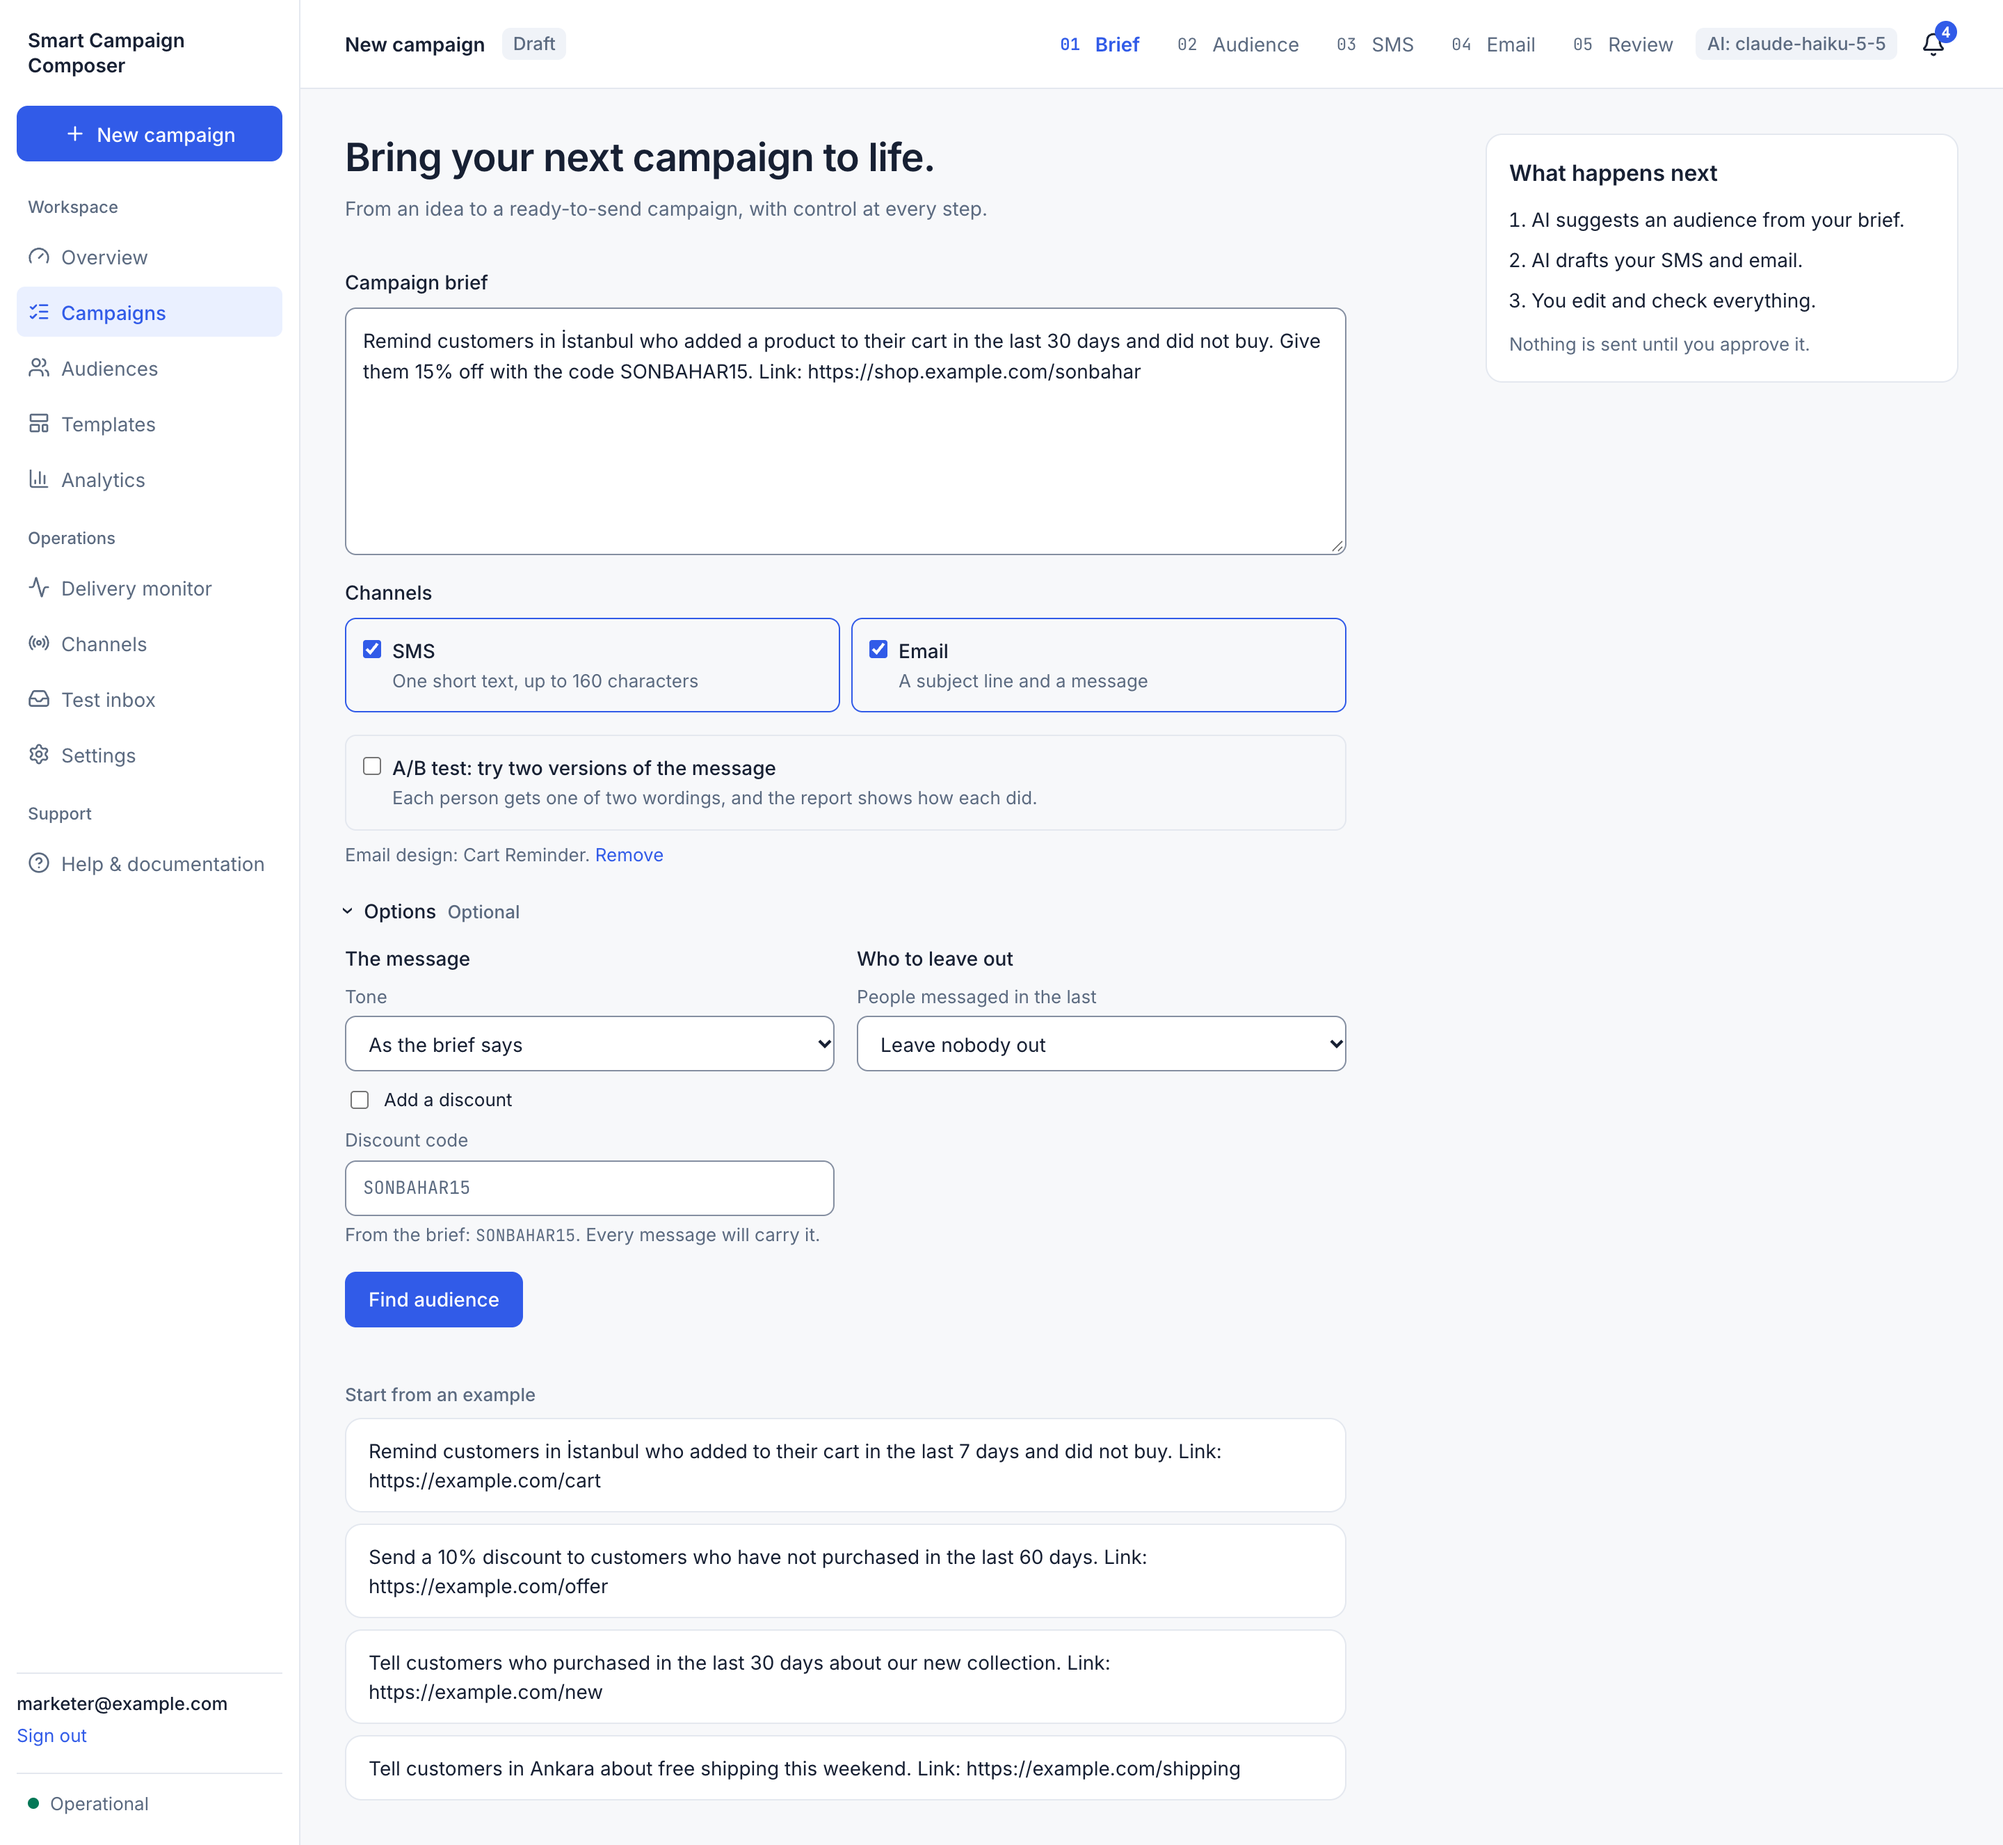
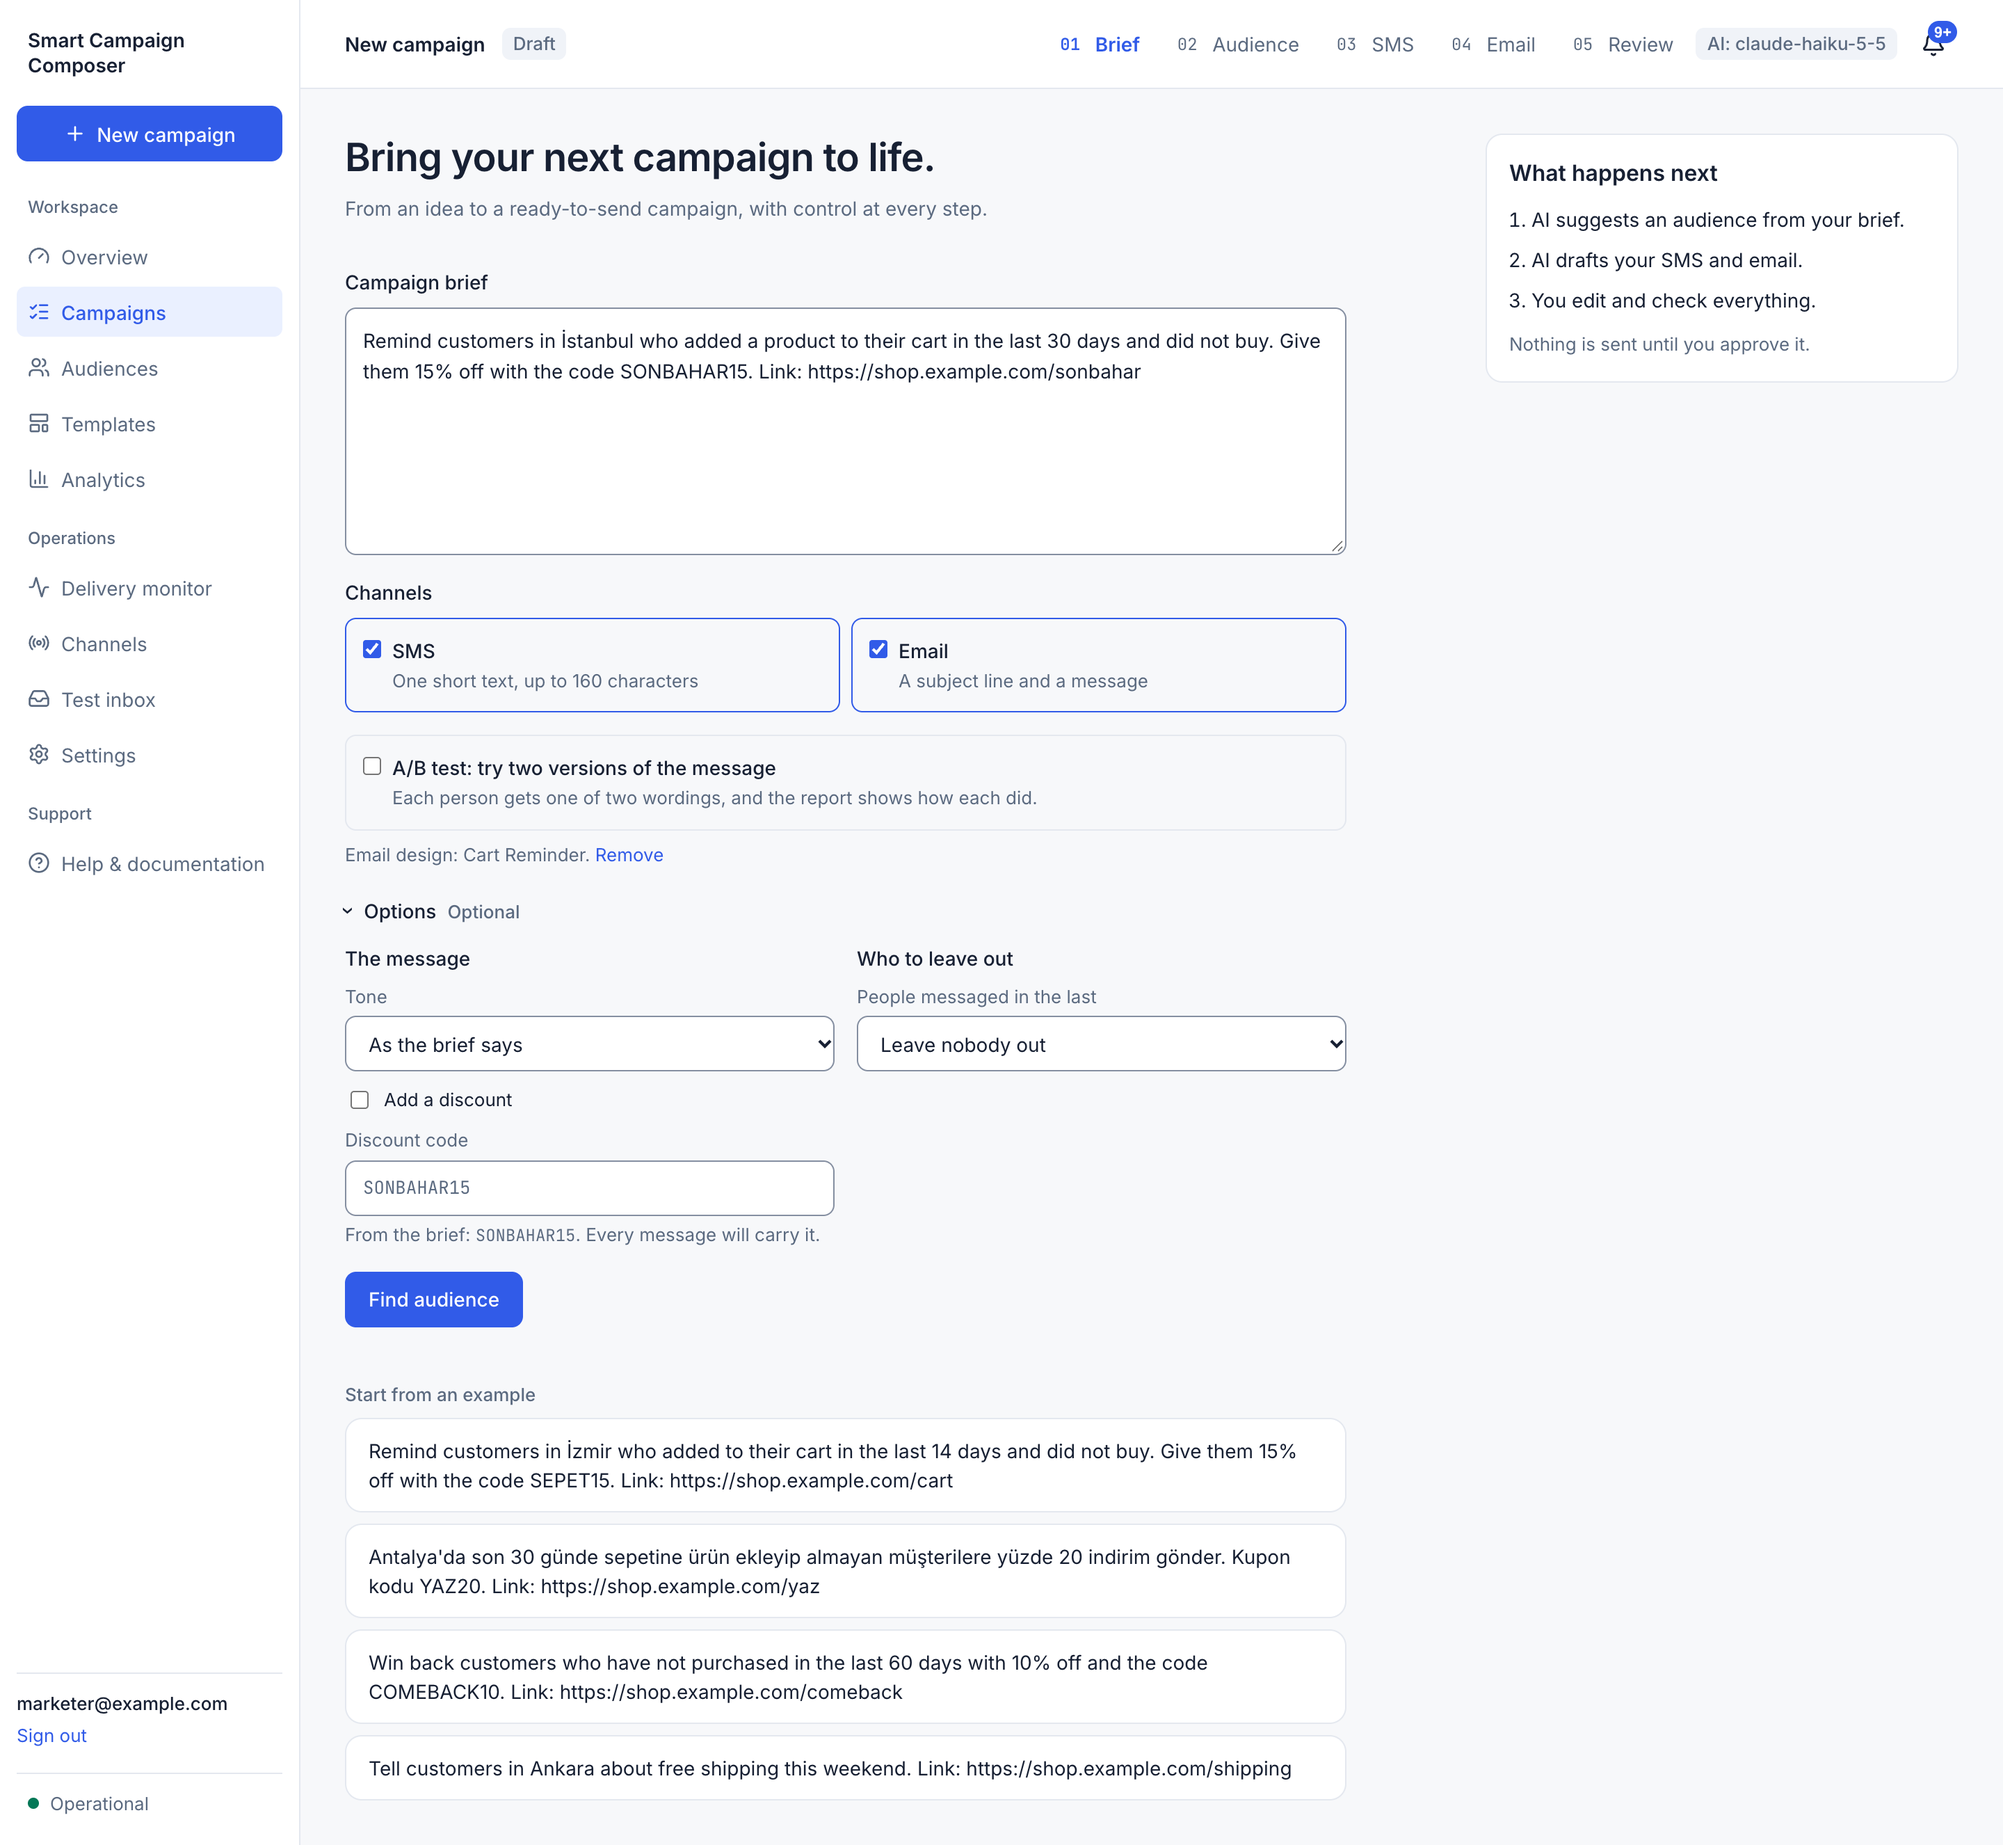
docs: refresh the brief examples, first-campaign steps and screenshots

Changed region(s): [[0.1875, 0.8348, 0.5938, 0.8658], [0.1875, 0.8967, 0.5625, 0.9276], [0.2812, 0.773, 0.625, 0.8039]]

diff --git a/frontend/src/views/ComposeView.vue b/frontend/src/views/ComposeView.vue
@@ -8,6 +8,7 @@ import ValidationNotice from "../components/ValidationNotice.vue";
 import { ruleText } from "../lib/audience";
 import { defaultChannels } from "../lib/preferences";
 import { EMAIL_TEMPLATES, isCustomTemplate } from "../lib/emailTemplates";
+import { BRIEF_EXAMPLES as suggestions } from "../lib/briefExamples";
 import { briefCodes, briefLinks, validCode } from "../lib/message";
 import { navigate } from "../lib/navigation";
 import { requestAudience } from "../lib/pendingAudience";
@@ -53,13 +54,6 @@ onMounted(async () => {
     error.value = errorMessage(failure);
   }
 });
-
-const suggestions = [
-  "Remind customers in İstanbul who added to their cart in the last 7 days and did not buy. Link: https://example.com/cart",
-  "Send a 10% discount to customers who have not purchased in the last 60 days. Link: https://example.com/offer",
-  "Tell customers who purchased in the last 30 days about our new collection. Link: https://example.com/new",
-  "Tell customers in Ankara about free shipping this weekend. Link: https://example.com/shipping",
-];
 
 const validShare = computed(() => Number.isInteger(firstShare.value) && Number(firstShare.value) >= 1 && Number(firstShare.value) <= 99);
 

diff --git a/frontend/src/lib/briefExamples.ts b/frontend/src/lib/briefExamples.ts
@@ -1,0 +1,8 @@
+// Each shows something a brief can carry: a code, a link, a percent in words, Turkish.
+export const BRIEF_EXAMPLES = [
+  "Remind customers in İzmir who added to their cart in the last 14 days and did not buy. Give them 15% off with the code SEPET15. Link: https://shop.example.com/cart",
+  "Antalya'da son 30 günde sepetine ürün ekleyip almayan müşterilere yüzde 20 indirim gönder. Kupon kodu YAZ20. Link: https://shop.example.com/yaz",
+  "Win back customers who have not purchased in the last 60 days with 10% off and the code COMEBACK10. Link: https://shop.example.com/comeback",
+  "Tell customers in Ankara about free shipping this weekend. Link: https://shop.example.com/shipping",
+];
+

diff --git a/frontend/src/lib/briefExamples.test.ts b/frontend/src/lib/briefExamples.test.ts
@@ -1,0 +1,13 @@
+import { describe, expect, it } from "vitest";
+import { BRIEF_EXAMPLES } from "./briefExamples";
+import { briefCodes, briefLinks } from "./message";
+
+describe("the brief examples", () => {
+  it("each pass the form as written, with one link and at most one code", () => {
+    for (const example of BRIEF_EXAMPLES) {
+      expect(briefLinks(example), example).toHaveLength(1);
+      expect(briefCodes(example).length, example).toBeLessThanOrEqual(1);
+    }
+    expect(BRIEF_EXAMPLES.filter((example) => briefCodes(example).length === 1)).toHaveLength(3);
+  });
+});

diff --git a/README.md b/README.md
@@ -40,7 +40,7 @@ Say who the campaign is for and what it should say, choose SMS, email or both, a
 
 A discount code in the brief, here `SONBAHAR15`, is read and shown under Options; it can also be typed there. Every message carries it.
 
-![New campaign: a brief with a discount code and a link, both channels selected, the Cart Reminder template chosen and the code read from the brief under Options](docs/screenshots/brief.png)
+![New campaign: a brief with a discount code and a link, both channels selected, the Cart Reminder template chosen and the code read from the brief under Options, with the four examples below](docs/screenshots/brief.png)
 
 ### 3. Check who will receive it
 
@@ -88,11 +88,11 @@ When the brief has a link, every SMS carries a short link of its own, and openin
 
 The test inbox shows each message the mock provider accepted, as the customer would get it: here the Cart Reminder email in English, with the name and the code filled in, among the Turkish ones. Nothing leaves your machine.
 
-![Test inbox: accepted emails in Turkish and English, and one open English cart reminder with the SONBAHAR15 code box and its button](docs/screenshots/test-inbox.png)
+![Test inbox: accepted emails in several languages, and one open English cart reminder with the SONBAHAR15 code box and its button](docs/screenshots/test-inbox.png)
 
 Each SMS carries the code and a short link of its own.
 
-![Test inbox: accepted SMS in Turkish and English, and one open English SMS with the code and its short link](docs/screenshots/test-inbox-sms.png)
+![Test inbox: accepted SMS in several languages, and one open English SMS with the code and its short link](docs/screenshots/test-inbox-sms.png)
 
 ### 8. See the whole workspace
 
@@ -167,18 +167,21 @@ You should see an empty Overview with a `Mock AI` badge at the top and Database,
 
 ### 5. Send your first campaign
 
-1. Open **Templates**, find **Flash Sale** and select **Use template**.
-2. Paste this brief, then select **Find audience**:
+1. Open **Templates**, find **Cart Reminder** and select **Use template**.
+2. Under **Start from an example**, select the first one. It fills in this brief:
 
    ```text
-   Send a 30% discount reminder to customers in Istanbul who added to their cart in the last 30 days and did not buy. Link: https://example.com/sale
+   Remind customers in İzmir who added to their cart in the last 14 days and did not buy. Give them 15% off with the code SEPET15. Link: https://shop.example.com/cart
    ```
 
-3. Read the conditions and the audience count, about 570 people, then select **Continue to SMS**.
-4. Check the SMS, select **Continue to email**, check the email, and select **Continue to review**.
-5. On review, open each language's tab. Then select **Approve and send**. No real message is sent.
+   Open **Options** to see the code `SEPET15` read from the brief. Then select **Find audience**.
+3. Read the conditions: city is İzmir, added to cart in the last 14 days, no purchase after. They match about 110 people; fewer can be reached, since some did not consent to SMS or email. Select **Continue to SMS**.
+4. Check the SMS: it carries the code and a short link in place of the brief's link. Select **Continue to email**, check that the email shows the code in a box above its button, and select **Continue to review**.
+5. On review, open each language's tab, then select **Approve and send**; the button says how many messages go out, about 170. No real message is sent.
 6. The campaign page shows progress live. A send this size finishes in about 20 seconds. Open its **Deliveries** tab for the report.
-7. Open the test inbox at http://localhost:8083 to read the messages as customers would get them.
+7. Open the test inbox at http://localhost:8083 to read the messages as customers would get them. Each SMS has a short link of its own; opening one redirects to the brief's link and counts a click.
+
+The other examples show a Turkish brief with its percent in words, a win-back offer to everyone who has not bought in 60 days, and a link without a code.
 
 The test inbox shows each SMS and email the mock provider accepted, with names filled in. Opening one there sends a signed event back to the app, and the campaign's Deliveries report counts it as opened or read. The inbox is kept in the provider's journal with the messages, up to the last 5,000, so it comes back after a restart. Removing the provider's volume empties it, while the opens already reported stay in the database.
 
